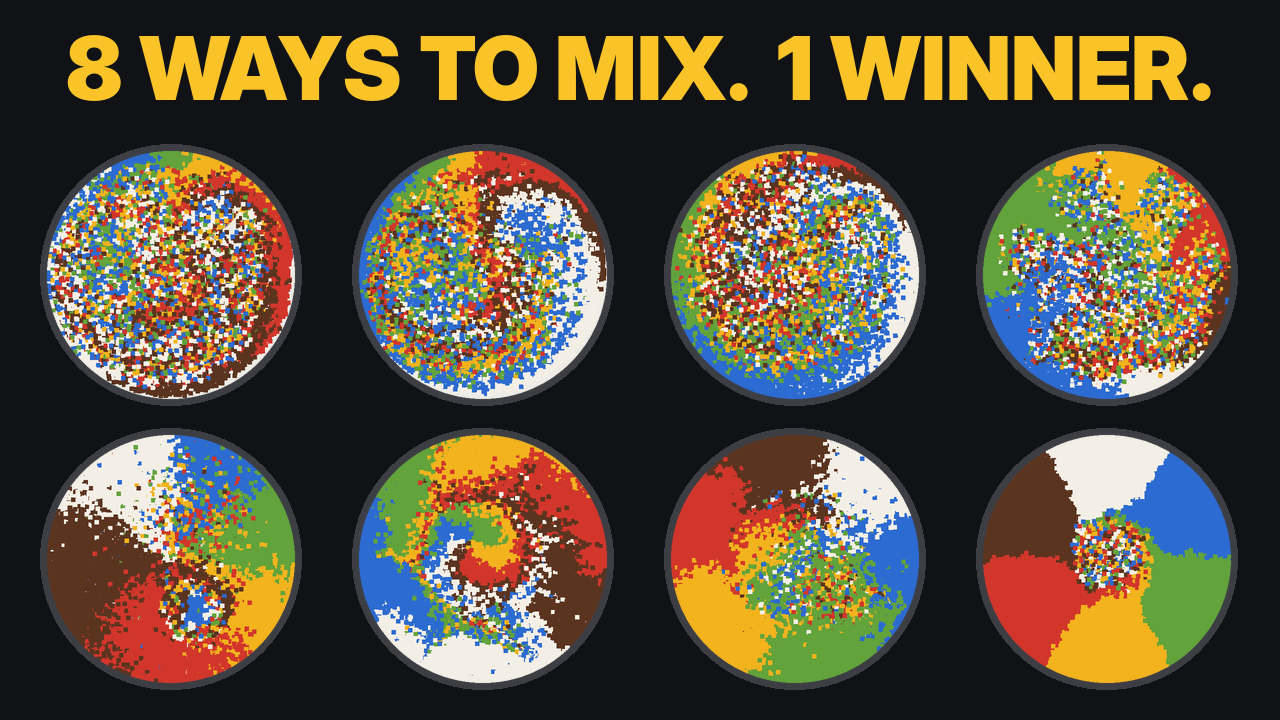
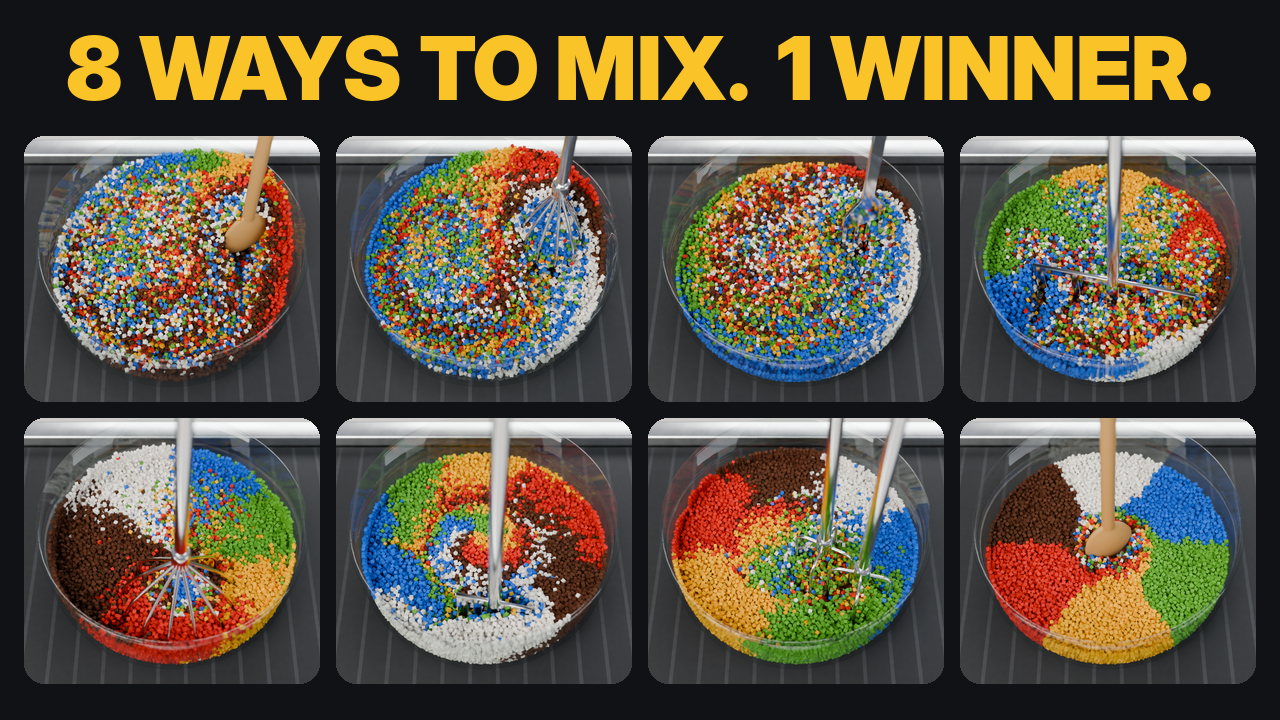
powder_mixer: thumbnails B and C from rendered stills of the grains
Claude-Session: https://claude.ai/code/session_01S7EUN4CGcs5VcH7QMy88q6

diff --git a/videos/powder_mixer/make_thumbs.py b/videos/powder_mixer/make_thumbs.py
@@ -1,7 +1,7 @@
-"""Three thumbnail options (1280x720) for the knockout film, built from the
-simulation caches and one rendered still.
+"""Three thumbnail options (1280x720) for the knockout film, built from rendered
+stills (the commands that make each are in the comments below).
 
-    python make_thumbs.py path/to/1080p_still.png
+    python make_thumbs.py A_still.png C_still.png B_tiles_folder
 """
 import os
 import sys
@@ -33,7 +33,7 @@ def pill(d, xy, s, size, fill, ink=(255, 255, 255), anchor="l"):
     d.text((x + size, y + int(size * 0.95)), s, font=f, fill=ink, anchor="lm")
 
 
-def main(still):
+def main(still, still_c, tiles):
     out = os.path.join(HERE, "thumbnails")
     os.makedirs(out, exist_ok=True)
     ms = {m["key"]: m for m in MF.bracket()}
@@ -51,39 +51,36 @@ def main(still):
     pill(d, (W - 70, 612), f"{100 * sc['paddle_large']:.0f}% MIXED", 44, F.tool_rgb("paddle_large"), anchor="r")
     im.save(os.path.join(out, "mix_off_thumb_A.png"))
 
-    # B: eight top-down bowls five seconds in
+    # B: the eight methods five seconds in, as rendered bowls.  One still per tool in tiles/<tool>/still_0120.png:
+    #    bowl_scene.py --left cache/film/wedges_<tool> --no-hud --bare --still 120 --res 900x810 --samples 40
+    #                  --elev 62 --dist 245 --target 0,-6,8 --out tiles/<tool>
     im = Image.new("RGB", (W, H), INK)
     d = ImageDraw.Draw(im)
     order = ["spoon", "whisk", "fork", "paddle_large", "wire_whip", "paddle_small", "twin_beaters", "spoon_centre"]
-    s = 250
+    tw, th, gap, x0, y0 = 296, 266, 16, 24, 136
+    mask = Image.new("L", (tw, th), 0)
+    ImageDraw.Draw(mask).rounded_rectangle((0, 0, tw - 1, th - 1), 20, fill=255)
     for k, tool in enumerate(order):
-        r = run("wedges", tool)
-        x = 46 + (k % 4) * (s + 62)
-        y = 150 + (k // 4) * (s + 34)
-        im.paste(Image.new("RGB", (s + 12, s + 12), INK), (x - 6, y - 6))
-        d.ellipse((x - 6, y - 6, x + s + 5, y + s + 5), fill=(60, 62, 68))
-        disc = r.disc(int(5.0 * 24), s)
-        im.paste(disc, (x, y), disc)
+        tile = Image.open(os.path.join(tiles, tool, "still_0120.png")).convert("RGB")
+        w, h = tile.size                                   # crop in on the bowl, keeping the tile's 10:9 shape
+        tile = tile.crop((int(w * 0.11), int(h * 0.075), int(w * 0.89), int(h * 0.855))).resize((tw, th), Image.LANCZOS)
+        im.paste(tile, (x0 + (k % 4) * (tw + gap), y0 + (k // 4) * (th + gap)), mask)
     headline(d, (W // 2, 14), "8 WAYS TO MIX.  1 WINNER.", 88, fill=YELLOW, stroke=INK, anchor="ma", width=6)
     im.save(os.path.join(out, "mix_off_thumb_B.png"))
 
-    # C: same spoon, two techniques
+    # C: same spoon, two techniques, as a rendered still of the two bowls near the end of the match:
+    #    bowl_scene.py --left cache/film/wedges_spoon --right cache/film/wedges_spoon_centre --no-hud --bare
+    #                  --still 340 --res 1920x1080 --samples 64 --elev 62 --dist 455 --target 0,24,6
     sc = score("Q1")
-    im = Image.new("RGB", (W, H), PAPER)
+    im = Image.open(still_c).convert("RGB").resize((W, H), Image.LANCZOS)
     d = ImageDraw.Draw(im)
-    s = 470
-    for tool, x in (("spoon", 70), ("spoon_centre", W - 70 - s)):
-        r = run("wedges", tool)
-        d.ellipse((x - 8, 196, x + s + 7, 196 + s + 15), fill=(214, 211, 204))
-        disc = r.disc(r.n - 1, s)
-        im.paste(disc, (x, 204), disc)
-    headline(d, (W // 2, 12), "SAME SPOON.", 120, fill=INK, stroke=PAPER, anchor="ma", width=0)
-    pill(d, (70 + s // 2, 150), f"{100 * sc['spoon']:.0f}% MIXED", 38, F.tool_rgb("spoon"), anchor="m")
-    pill(d, (W - 70 - s // 2, 150), f"{100 * sc['spoon_centre']:.0f}% MIXED", 38, F.tool_rgb("spoon_centre"), anchor="m")
-    headline(d, (W // 2, H // 2 + 30), "vs", 90, fill=INK, stroke=PAPER, anchor="mm", width=8)
+    headline(d, (W // 2, 4), "SAME SPOON.", 128, anchor="ma", width=12)
+    headline(d, (W // 2, H // 2 + 60), "vs", 84, anchor="mm", width=9)
+    pill(d, (70, 612), f"{100 * sc['spoon']:.0f}% MIXED", 44, F.tool_rgb("spoon"))
+    pill(d, (W - 70, 612), f"{100 * sc['spoon_centre']:.0f}% MIXED", 44, F.tool_rgb("spoon_centre"), anchor="r")
     im.save(os.path.join(out, "mix_off_thumb_C.png"))
     print("wrote 3 thumbnails to", out)
 
 
 if __name__ == "__main__":
-    main(sys.argv[1])
+    main(*sys.argv[1:4])

diff --git a/videos/copy/mix_off_YOUTUBE.md b/videos/copy/mix_off_YOUTUBE.md
@@ -22,8 +22,8 @@ wedges, then stripes, then rings), so a winner has to cope with a new problem to
 | | Thumbnail | Title |
 |---|---|---|
 | A | `thumbnails/mix_off_thumb_A.png`: the two mixers (current look, "Kitchen Inc" bands), "SPOON vs STAND MIXER", 96% against 78% | Spoon vs Stand Mixer: We Simulated 23,000 Grains to Settle It |
-| B | `thumbnails/mix_off_thumb_B.png`: eight top-down bowls, "8 WAYS TO MIX. 1 WINNER." | 8 Ways to Mix Dry Ingredients, Ranked by Physics |
-| C | `thumbnails/mix_off_thumb_C.png`: two top-down bowls, "SAME SPOON.", 98% against 17% | Same Spoon, Same Bowl: 98% Mixed vs 17% |
+| B | `thumbnails/mix_off_thumb_B.png`: the eight methods as rendered bowls, five seconds in, "8 WAYS TO MIX. 1 WINNER." | 8 Ways to Mix Dry Ingredients, Ranked by Physics |
+| C | `thumbnails/mix_off_thumb_C.png`: the two spoon bowls as a rendered still, "SAME SPOON.", 98% against 17% | Same Spoon, Same Bowl: 98% Mixed vs 17% |
 
 **Description**
 
